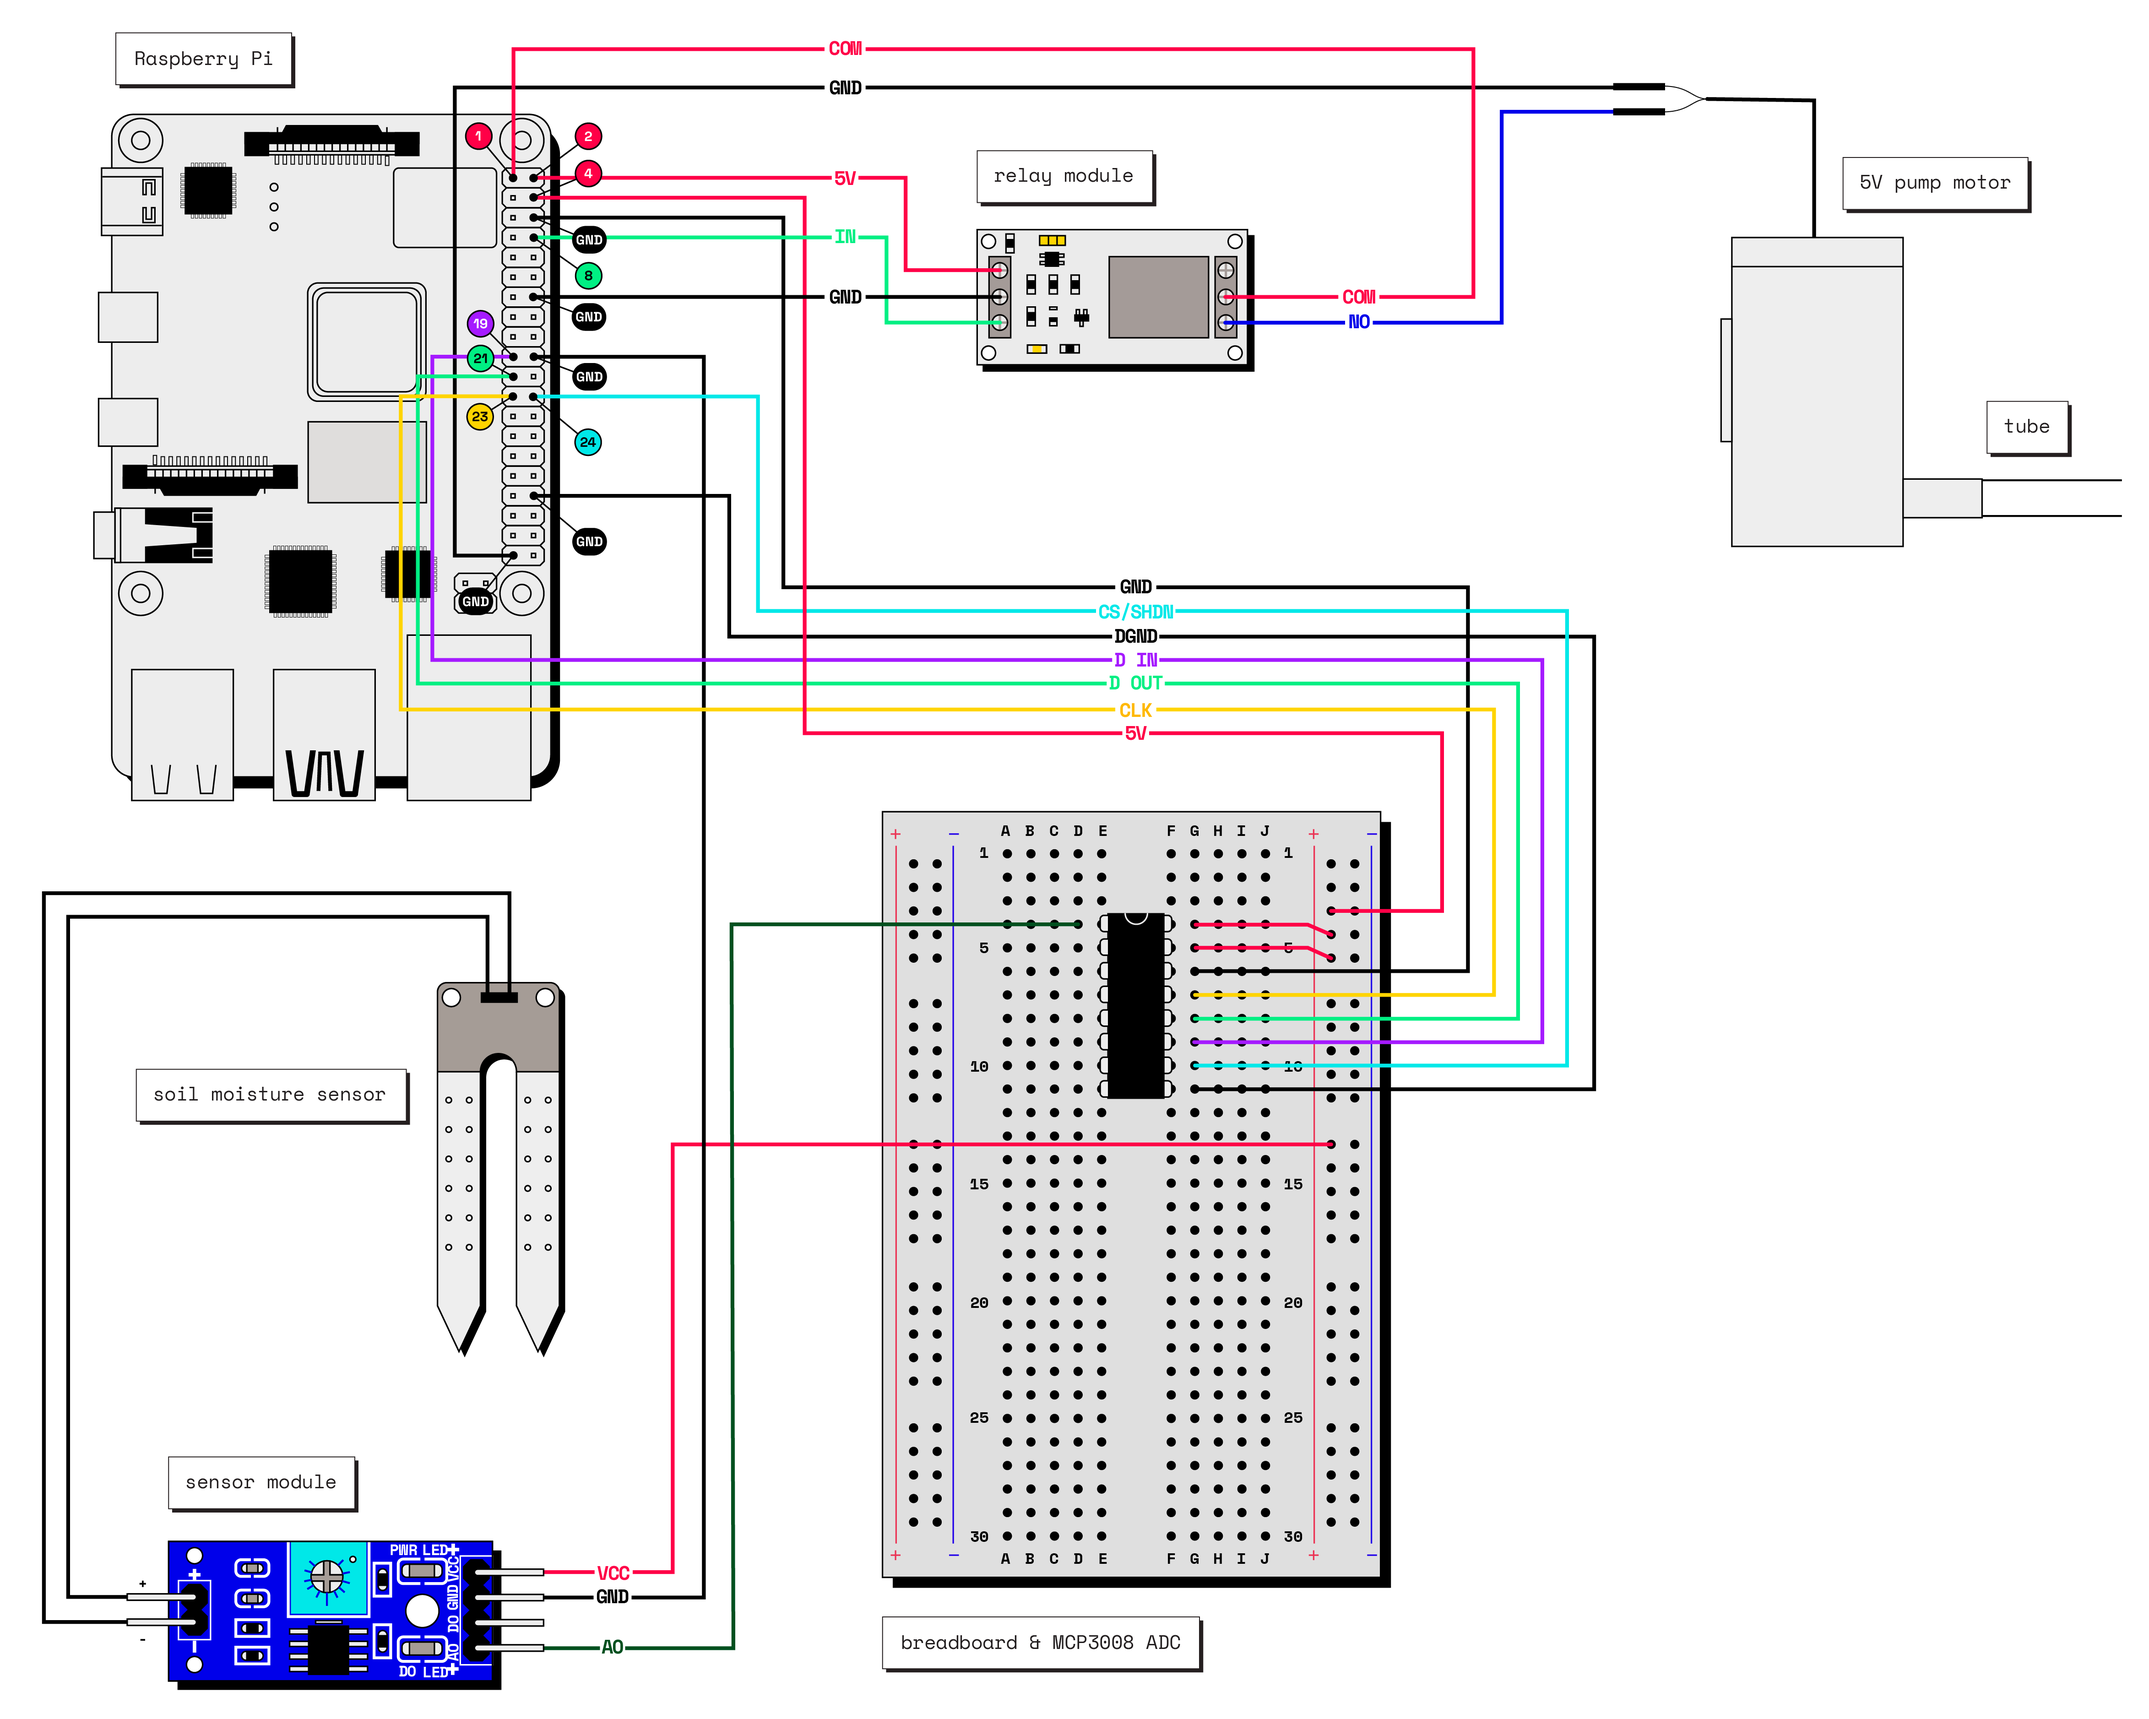
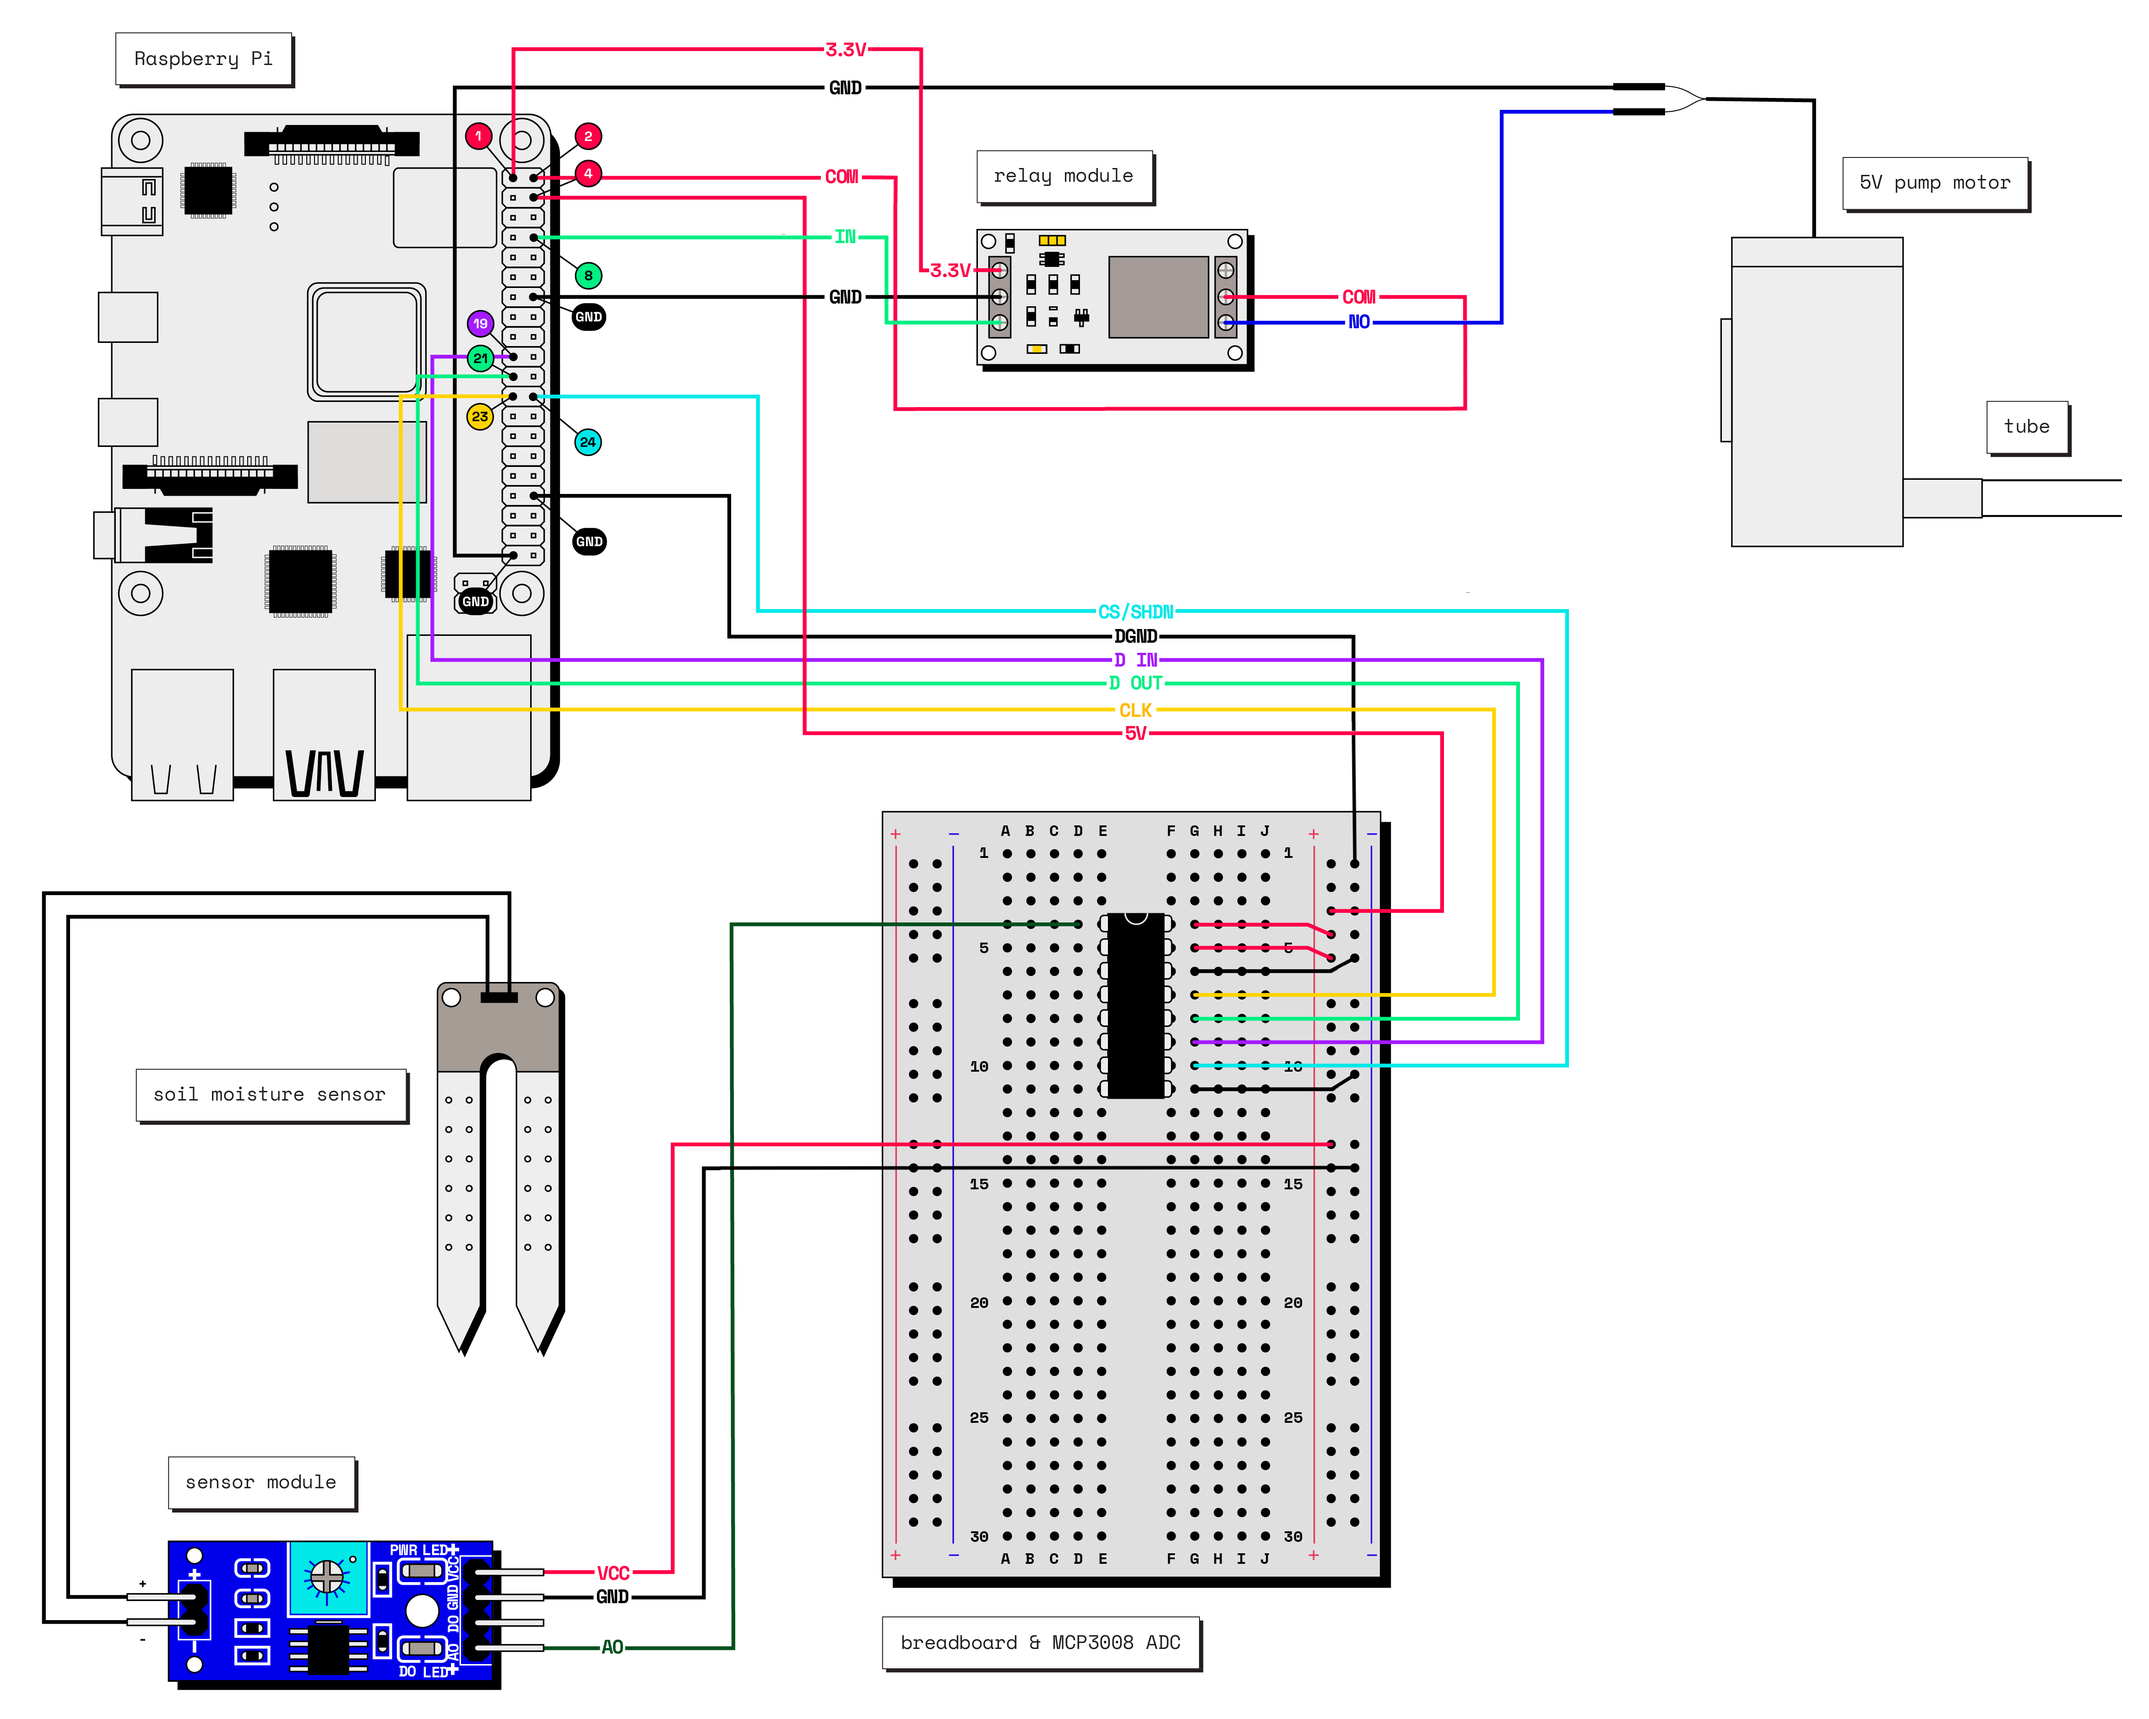
Simplify and fix wiring diagram plant wiring (#4310)

diff --git a/docs/tutorials/projects/make-a-plant-watering-robot.md b/docs/tutorials/projects/make-a-plant-watering-robot.md
@@ -88,22 +88,34 @@ Use this to orient the ADC to determine the location to insert your wires.
 {{% /alert %}}
 
 Insert the MCP3008 into your breadboard so that it bridges both sides of the divide.
-Then, use the rows on the side of your MCP3008's pins and the GPIO pins on your machine to connect the pins with wires as follows:
+Now you can use the breadboard points next to the MCP3008 to connect pins on the MCP3008 to your Raspberry Pi and other peripherals using jumper wires.
+Begin by connecting MCP3008 pins to your Raspberry Pi:
 
 <!-- prettier-ignore -->
 | MCP3008 ADC Pin | Raspberry Pi Pin |
 | ----------- | ---------------- |
-| VDD | 5V |
-| VREF | 5V |
-| AGND | GND |
-| DGND | GND |
 | CLK | SCLK |
 | DOUT | MISO |
 | DIN | MOSI |
 | CS/SHDN | 24GPIO8 |
 
-Use an additional wire to wire Raspberry Pi [pin 4 (a 5 volt power pin)](https://pinout.xyz/pinout/5v_power) to the power rail of the breadboard (the red plus sign column).
-This brings the 5V power output from the Raspberry Pi to the ADC and the sensor.
+Next, connect MCP3008 pins to the ground and power rails on the breadboard:
+
+<!-- prettier-ignore -->
+| MCP3008 ADC Pin | Breadboard |
+| ----------- | ---------------- |
+| VDD | Any point on 5V power rail (red +) |
+| VREF | Any point on 5V power rail (red +) |
+| AGND | Any point on GND rail (blue -) |
+| DGND | Any point on GND rail (blue -) |
+
+Finally, connect your breadboard rails to 5V power and ground on the Raspberry Pi:
+
+<!-- prettier-ignore -->
+| Breadboard rail | Raspberry Pi pin |
+| ----------- | ---------------- |
+| Any point on 5V power rail (red +) | [Pin 4 (a 5 volt power pin)](https://pinout.xyz/pinout/5v_power) |
+| Any point on GND rail (blue -) | [pin 34 (a ground pin)](https://pinout.xyz/pinout/ground) |
 
 ### Wire your resistive soil moisture sensor
 
@@ -116,12 +128,14 @@ Reference this diagram of the blue module part of the sensor:
 Start by connecting the female jumper wires at the end of the sensor prongs to the blue module where the diagram shown above is labeled "Connect with Probe."
 Be careful of the positive and negative sides, and make sure to match them correctly.
 
-Then, wire the rest of the pins on the module to the Pi and ADC as follows:
+Then, wire the rest of the pins on the module to the breadboard as follows:
 
 <!-- prettier-ignore -->
-| Pi | ADC |
-|--|--|
-|<table> <tr><th>Moisture Sensor Pin</th><th>Raspberry Pi Pin</th></tr><tr><td>VCC</td><td>5V on the power rail</td></tr><tr><td>GND</td><td>GND</td></tr> </table>| <table> <tr><th>Moisture Sensor Pin</th><th>MCP3008 ADC Pin</th></tr><tr><td>A0 (Analog Signal Output)</td><td>CH0</td></tr> </table>|
+| Moisture Sensor Pin | Breadboard |
+| ----------- | ---------------- |
+| A0 (Analog Signal Output) | CH0 |
+| VCC | Any point on 5V power rail (red +) |
+| GND | Any point on GND rail (blue -) |
 
 Put the soil moisture sensor inside of the container holding your plant.
 
@@ -129,12 +143,12 @@ Put the soil moisture sensor inside of the container holding your plant.
 
 Now, wire and power your pump and relay module to complete your hardware setup:
 
-1. Use a [splicing connector](https://www.amazon.com/Splicing-Connector-Lever-Nut-Assortment-Pocket/dp/B07NKSHVF6) to connect your 5V pump motor's positive wire to a jumper wire, and connect it to the NO pin on relay module.
+1. Use a [splicing connector](https://www.amazon.com/Splicing-Connector-Lever-Nut-Assortment-Pocket/dp/B07NKSHVF6) to connect your 5V pump motor's positive wire to a jumper wire, and connect it to the NO pin on the relay module.
    NO stands for normally open, which will keep the circuit open unless the pin is triggered.
 2. Use a [splicing connector](https://www.amazon.com/Splicing-Connector-Lever-Nut-Assortment-Pocket/dp/B07NKSHVF6) to connect your 5V pump motor's negative wire to a jumper wire, and connect it to [pin 39 (ground)](https://pinout.xyz/pinout/ground) on the Raspberry Pi.
-3. Connect the COM (common) pin on the relay to [pin 1 (3.3V)](https://pinout.xyz/pinout/3v3_power) on the Pi.
-4. Connect the 5V pin on the relay to [pin 2 (5V)](https://pinout.xyz/pinout/5v_power) on the Pi.
-5. Connect the GND pin on the relay to [pin 14 (ground)](https://pinout.xyz/pinout/ground) on the Pi.
+3. Connect the COM (common) pin on the relay to [pin 2 (5V)](https://pinout.xyz/pinout/5v_power) on the Pi.
+4. Connect the DC+ pin on the relay to [pin 1 (3.3V)](https://pinout.xyz/pinout/3v3_power) on the Pi.
+5. Connect the DC- pin on the relay to [pin 14 (ground)](https://pinout.xyz/pinout/ground) on the Pi.
 6. Connect the IN pin on the relay to the [pin 8 (GPIO 14)](https://pinout.xyz/pinout/pin8_gpio14) on the Pi.
 
 {{% alert title="Tip" color="tip" %}}
@@ -340,6 +354,7 @@ Then, add a control loop that runs continuously, similar to the following exampl
 ```python
 while True:
     # this level depends on your specific setup, replace after testing
+
     is_not_moist = 600
 
     # Get the moisture sensor's readings
